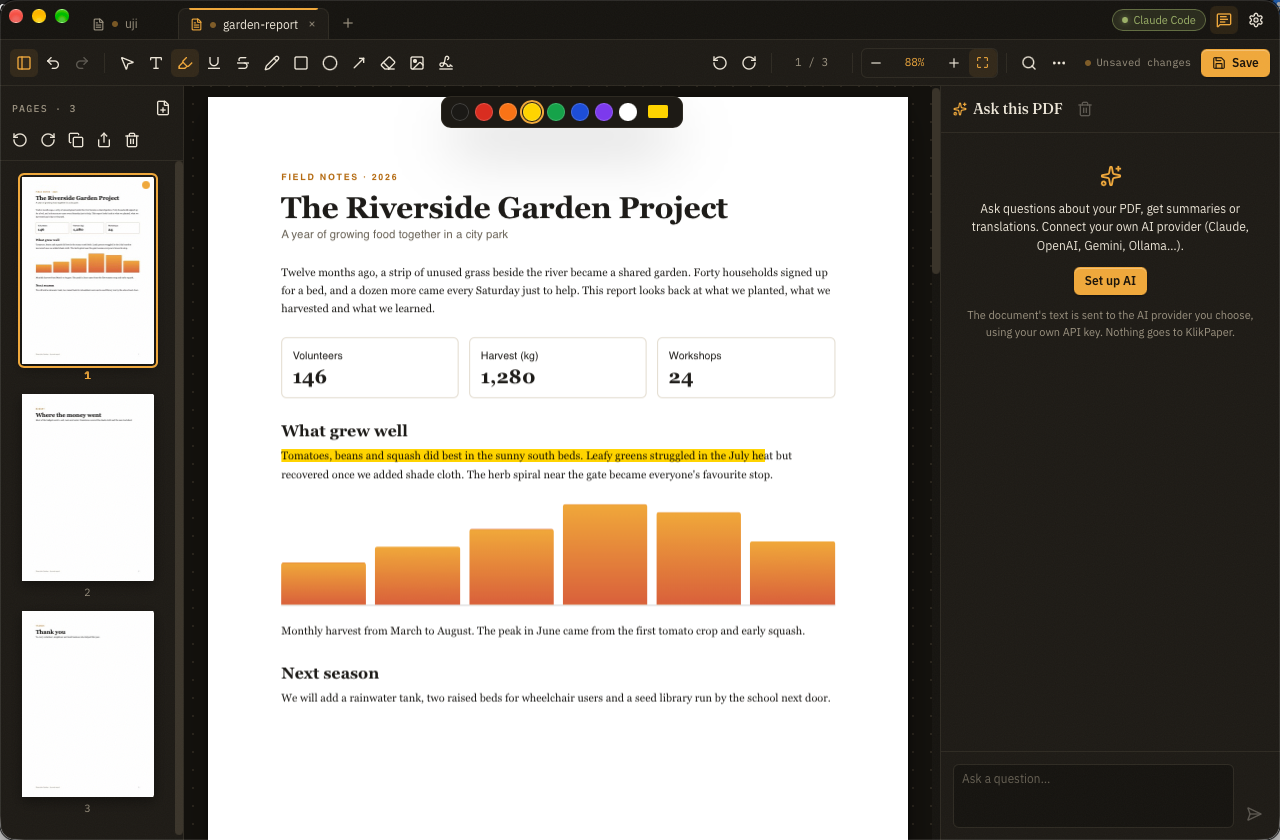
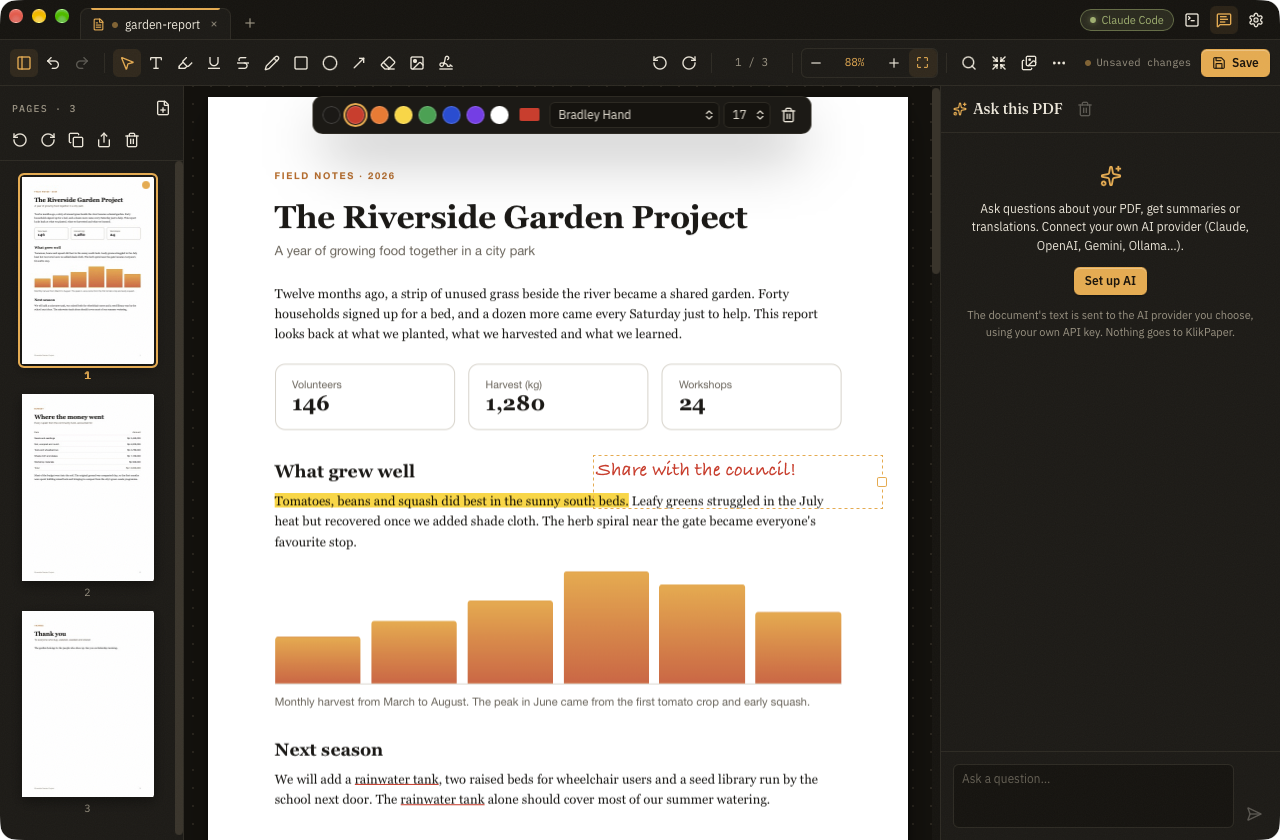
New README screenshot; measure highlight positions with the PDF's font
The screenshot shows 0.1.5: highlights that let the text show through, a
note in an installed handwriting font, the new toolbar buttons and an agent
connected over MCP, which made every edit in it.

Taking it showed highlight_text placing matches inside a line by character
count, so a phrase in a proportional font ended a few letters short. It now
measures with the font pdf.js loaded for the page. The font size box also
showed blank for sizes outside its list, such as 17 set by an agent.

diff --git a/src/lib/textmatch.ts b/src/lib/textmatch.ts
@@ -15,19 +15,24 @@ export interface TextItem {
 
 type Matrix = number[];
 
+/** Advance of an item's first `chars` characters as a share of the whole item (0..1). */
+export type Share = (item: TextItem, chars: number) => number;
+
+/** Without font metrics: every character equally wide. */
+const evenShare: Share = (item, chars) => chars / (item.str.length || 1);
+
 const apply = (m: Matrix, x: number, y: number): [number, number] => [m[0] * x + m[2] * y + m[4], m[1] * x + m[3] * y + m[5]];
 
 /** Box of characters [from, to) of an item, mapped by `toPage` (user space → page space). */
-function itemRect(item: TextItem, from: number, to: number, toPage: Matrix): Rect {
+function itemRect(item: TextItem, from: number, to: number, toPage: Matrix, share: Share): Rect {
   const [a, b, c, d, e, f] = item.transform;
   const len = Math.hypot(a, b) || 1;
   const [ux, uy] = [a / len, b / len];
   const vlen = Math.hypot(c, d) || 1;
   const [vx, vy] = [c / vlen, d / vlen];
   const h = item.height || vlen;
-  const n = item.str.length || 1;
-  const s = (item.width * from) / n;
-  const t = (item.width * to) / n;
+  const s = item.width * share(item, from);
+  const t = item.width * share(item, to);
   // From just below the baseline (descenders) to the top of capitals.
   const corners = [s, t].flatMap((along) =>
     [-0.22, 0.9].map((up) => apply(toPage, e + ux * along + vx * up * h, f + uy * along + vy * up * h)),
@@ -40,7 +45,7 @@ function itemRect(item: TextItem, from: number, to: number, toPage: Matrix): Rec
 }
 
 /** Rectangles (page space) covering each occurrence of `query`; one list per occurrence. */
-export function findTextRects(items: TextItem[], query: string, toPage: Matrix): Rect[][] {
+export function findTextRects(items: TextItem[], query: string, toPage: Matrix, share: Share = evenShare): Rect[][] {
   const needle = query.replace(/\s+/g, "").toLowerCase();
   if (!needle) return [];
   const chars: { item: number; index: number }[] = [];
@@ -61,7 +66,7 @@ export function findTextRects(items: TextItem[], query: string, toPage: Matrix):
       const item = chars[from].item;
       let to = from;
       while (to + 1 < at + needle.length && chars[to + 1].item === item) to++;
-      rects.push(itemRect(items[item], chars[from].index, chars[to].index + 1, toPage));
+      rects.push(itemRect(items[item], chars[from].index, chars[to].index + 1, toPage, share));
       from = to + 1;
     }
     out.push(rects);

diff --git a/src/lib/pdfjs.ts b/src/lib/pdfjs.ts
@@ -119,8 +119,19 @@ export async function pageText(page: PDFPageProxy): Promise<string> {
 /** Page-space rectangles of each occurrence of `query` on the page (unrotated, top-left origin). */
 export async function textRects(page: PDFPageProxy, query: string): Promise<Rect[][]> {
   const content = await page.getTextContent();
-  const items = content.items.filter((i) => "str" in i) as TextItem[];
-  return findTextRects(items, query, page.getViewport({ scale: 1, rotation: 0 }).transform);
+  const items = content.items.filter((i) => "str" in i) as (TextItem & { fontName: string })[];
+  // Where a match starts inside an item, measured with the PDF's own font: pdf.js
+  // registers it under the item's fontName once the page has been drawn. Until then
+  // the generic family it reports is still closer than equal-width characters.
+  const ctx = document.createElement("canvas").getContext("2d");
+  const share = (item: TextItem, chars: number) => {
+    const { str, fontName } = item as TextItem & { fontName: string };
+    if (!ctx || !str) return chars / (str.length || 1);
+    ctx.font = `100px "${fontName}", ${content.styles[fontName]?.fontFamily ?? "sans-serif"}`;
+    const whole = ctx.measureText(str).width;
+    return whole > 0 ? ctx.measureText(str.slice(0, chars)).width / whole : chars / str.length;
+  };
+  return findTextRects(items, query, page.getViewport({ scale: 1, rotation: 0 }).transform, share);
 }
 
 export interface LinkHandlers {

diff --git a/src/components/StyleBar.svelte b/src/components/StyleBar.svelte
@@ -45,6 +45,13 @@
     if (showSize) loadSystemFonts().catch((e) => toast(errorText(e), "error"));
   });
 
+  // A size set elsewhere (by an agent, say) joins the list so the box doesn't show blank.
+  const sizes = $derived.by(() => {
+    const list = [8, 9, 10, 11, 12, 14, 16, 18, 20, 24, 28, 32, 40, 48, 64];
+    const size = selected?.kind === "text" ? selected.size : ui.fontSize;
+    return list.includes(size) ? list : [...list, size].sort((a, b) => a - b);
+  });
+
   const currentFont = $derived(selected?.kind === "text" ? (selected.font ?? "") : settings.textFont);
 
   async function setFont(select: HTMLSelectElement) {
@@ -93,7 +100,7 @@
           {#each fonts.list as f (f.family)}<option value={f.family}>{f.family}</option>{/each}
         </select>
         <select class="field small" value={selected?.kind === "text" ? selected.size : ui.fontSize} onchange={(e) => setSize(Number(e.currentTarget.value))} aria-label={t("toolbar.fontSize")}>
-          {#each [8, 9, 10, 11, 12, 14, 16, 18, 20, 24, 28, 32, 40, 48, 64] as s (s)}<option value={s}>{s}</option>{/each}
+          {#each sizes as s (s)}<option value={s}>{s}</option>{/each}
         </select>
       {/if}
       {#if selected && (selected.kind === "rect" || selected.kind === "ellipse")}

diff --git a/src/lib/textmatch.test.ts b/src/lib/textmatch.test.ts
@@ -39,6 +39,15 @@ describe("findTextRects", () => {
     expect(r.h).toBeCloseTo(10);
   });
 
+  test("places a match by measured widths when given them", () => {
+    // "iiiWW": narrow i's, wide W's; the measured share puts "WW" further right than equal widths would.
+    const it = item("iiiWW", 0, 700, 10, 30);
+    const share = (_: TextItem, chars: number) => [0, 0.1, 0.2, 0.3, 0.65, 1][chars];
+    const [[r]] = findTextRects([it], "ww", TO_PAGE, share);
+    expect(r.x).toBeCloseTo(9);
+    expect(r.w).toBeCloseTo(21);
+  });
+
   test("no match", () => {
     expect(findTextRects([item("Hello", 0, 700)], "bye", TO_PAGE)).toEqual([]);
   });

diff --git a/CHANGELOG.md b/CHANGELOG.md
@@ -1,5 +1,10 @@
 # Changelog
 
+## Unreleased
+
+- Highlights from `highlight_text` line up with the text exactly: positions inside a line are measured with the PDF's own font
+- The font size box shows sizes set by an agent instead of going blank
+
 ## 0.1.5
 
 - A built-in terminal (title bar button or Ctrl+`) to run your agent right next to your PDFs; it opens in the active document's folder and can type the agent's command for you

diff --git a/README.md b/README.md
@@ -27,7 +27,7 @@
 </p>
 
 <p align="center">
-  <img src="design/screenshot.png" width="900" alt="KlikPaper with a highlighted PDF, the page sidebar and the Ask this PDF panel">
+  <img src="design/screenshot.png" width="900" alt="KlikPaper with a PDF an AI agent highlighted and annotated in a handwritten font over MCP, the page sidebar and the Ask this PDF panel">
 </p>
 
 
